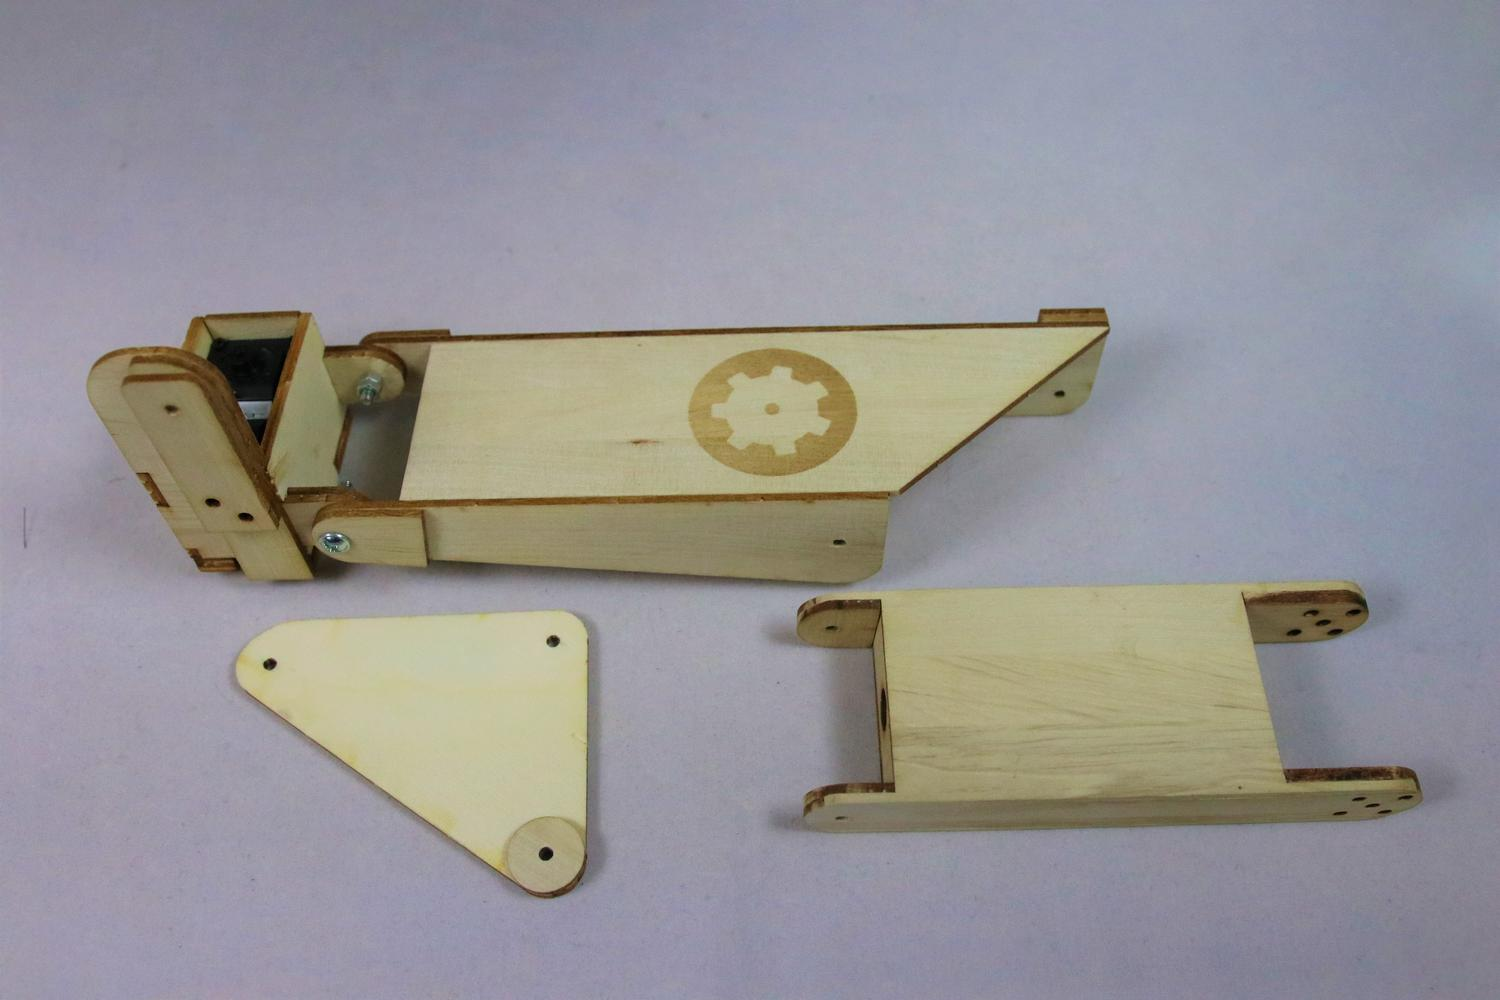
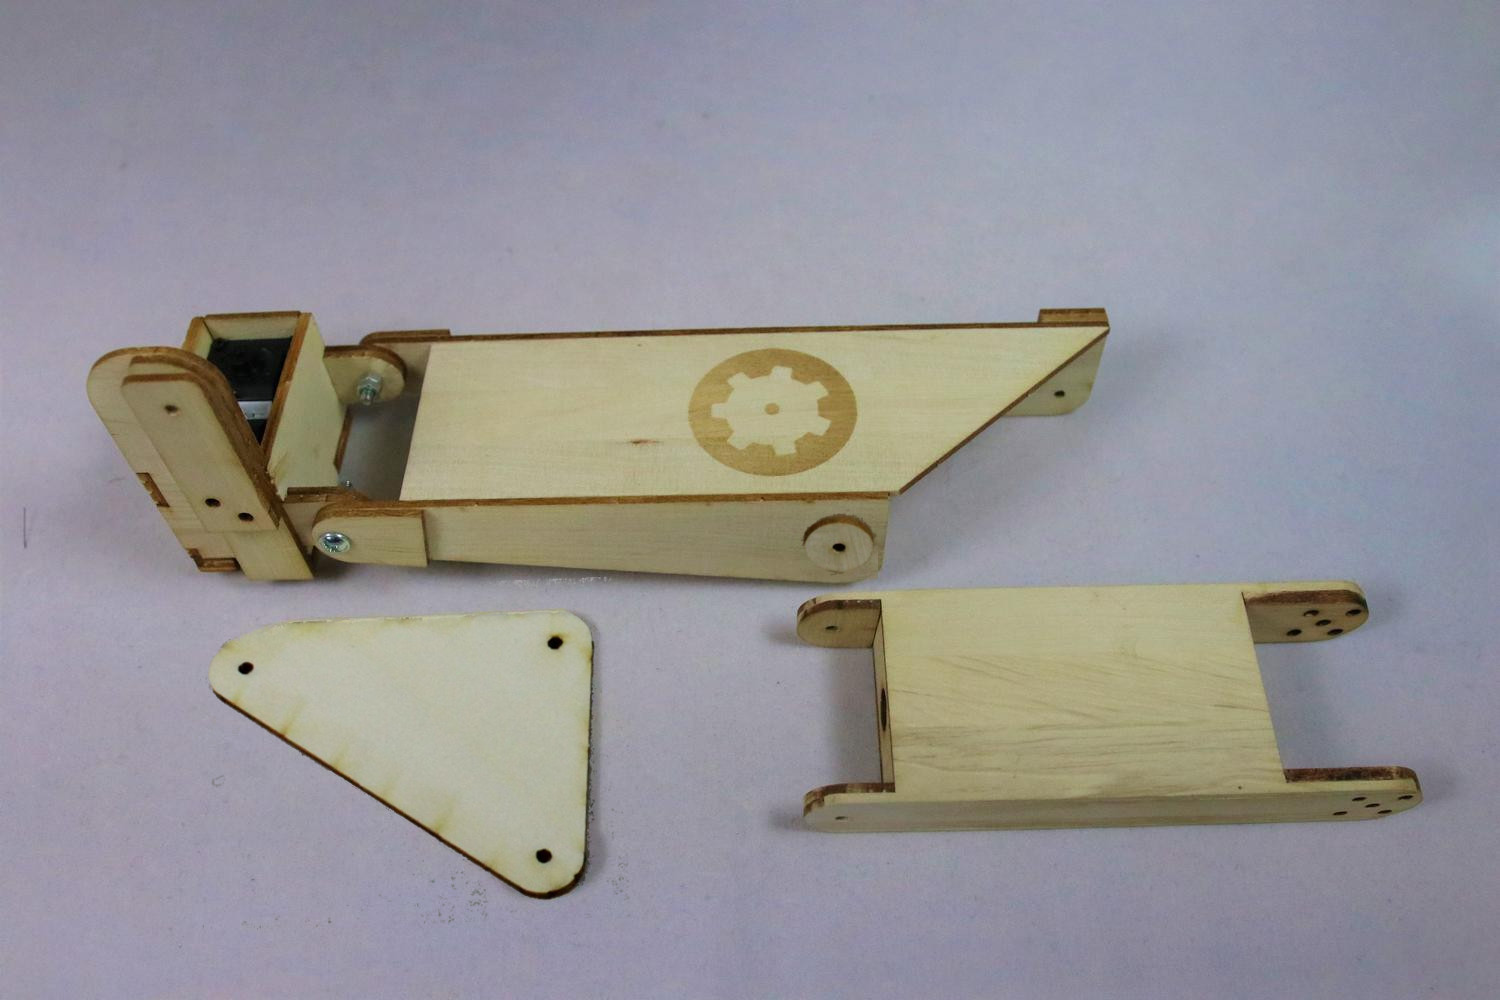
"Ruka" Altered assembly instructions for wooden rings.

Changed region(s): [[0.1227, 0.62, 0.3987, 0.899], [0.5213, 0.496, 0.5827, 0.558]]

diff --git a/_guides/006b - Ruka.md b/_guides/006b - Ruka.md
@@ -202,16 +202,13 @@ name: Ruka
   {% include image.html
     url="img/guides/HND_46.jpg"
     description=
-        "Připravte si díl TA2 a kruh s otvorem uprostřed."
-    url2="img/guides/HND_47.jpg"
-    description2=
-        "S pomocí šroubu přilepte kruh na díl TA2 z NEPOPSANÉ STRANY."
+        "K hornímu dílu ruky přilepte dřevěný kroužek, jak vyznačeno na obrázku. K přesnému vlepení si pomožte M3 šroubem. Dbejte, aby léta dřeva kolečka byla kolmá na léta horního dílu."
  %}
 
  {% include image.html
     url="img/guides/HND_48.jpg"
     description=
-        "Druhý kroužek přilepte za pomocí šroubku na dlouhý díl horní části viz. obrázek."
+        "Druhý kroužek přilepte za pomocí M3 šroubu na dlouhý díl horní části jako na obrázku. Dbejte, aby léta dřeva kolečka byla kolmá na léta dlouhého dílu."
     url2="img/guides/HND_49.jpg"
     description2=
         "Připravte si tyto dva díly."
@@ -254,12 +251,9 @@ name: Ruka
  %}
 
   {% include image.html
-    url="img/guides/HND_58.jpg"
+    url="img/guides/HND_59.jpg"
     description=
-        "Připravte si díl TA2. Do otvorů s kruhovou podložkou vložte šroubek směřující k podložce."
-    url2="img/guides/HND_59.jpg"
-    description2=
-        "Spojte dohromady díl TA2, horní a dolní část ruky."
+        "Spojte dohromady díl TA2, horní a dolní část ruky pomocí šroubku M3."
  %}
 
  {% include image.html
